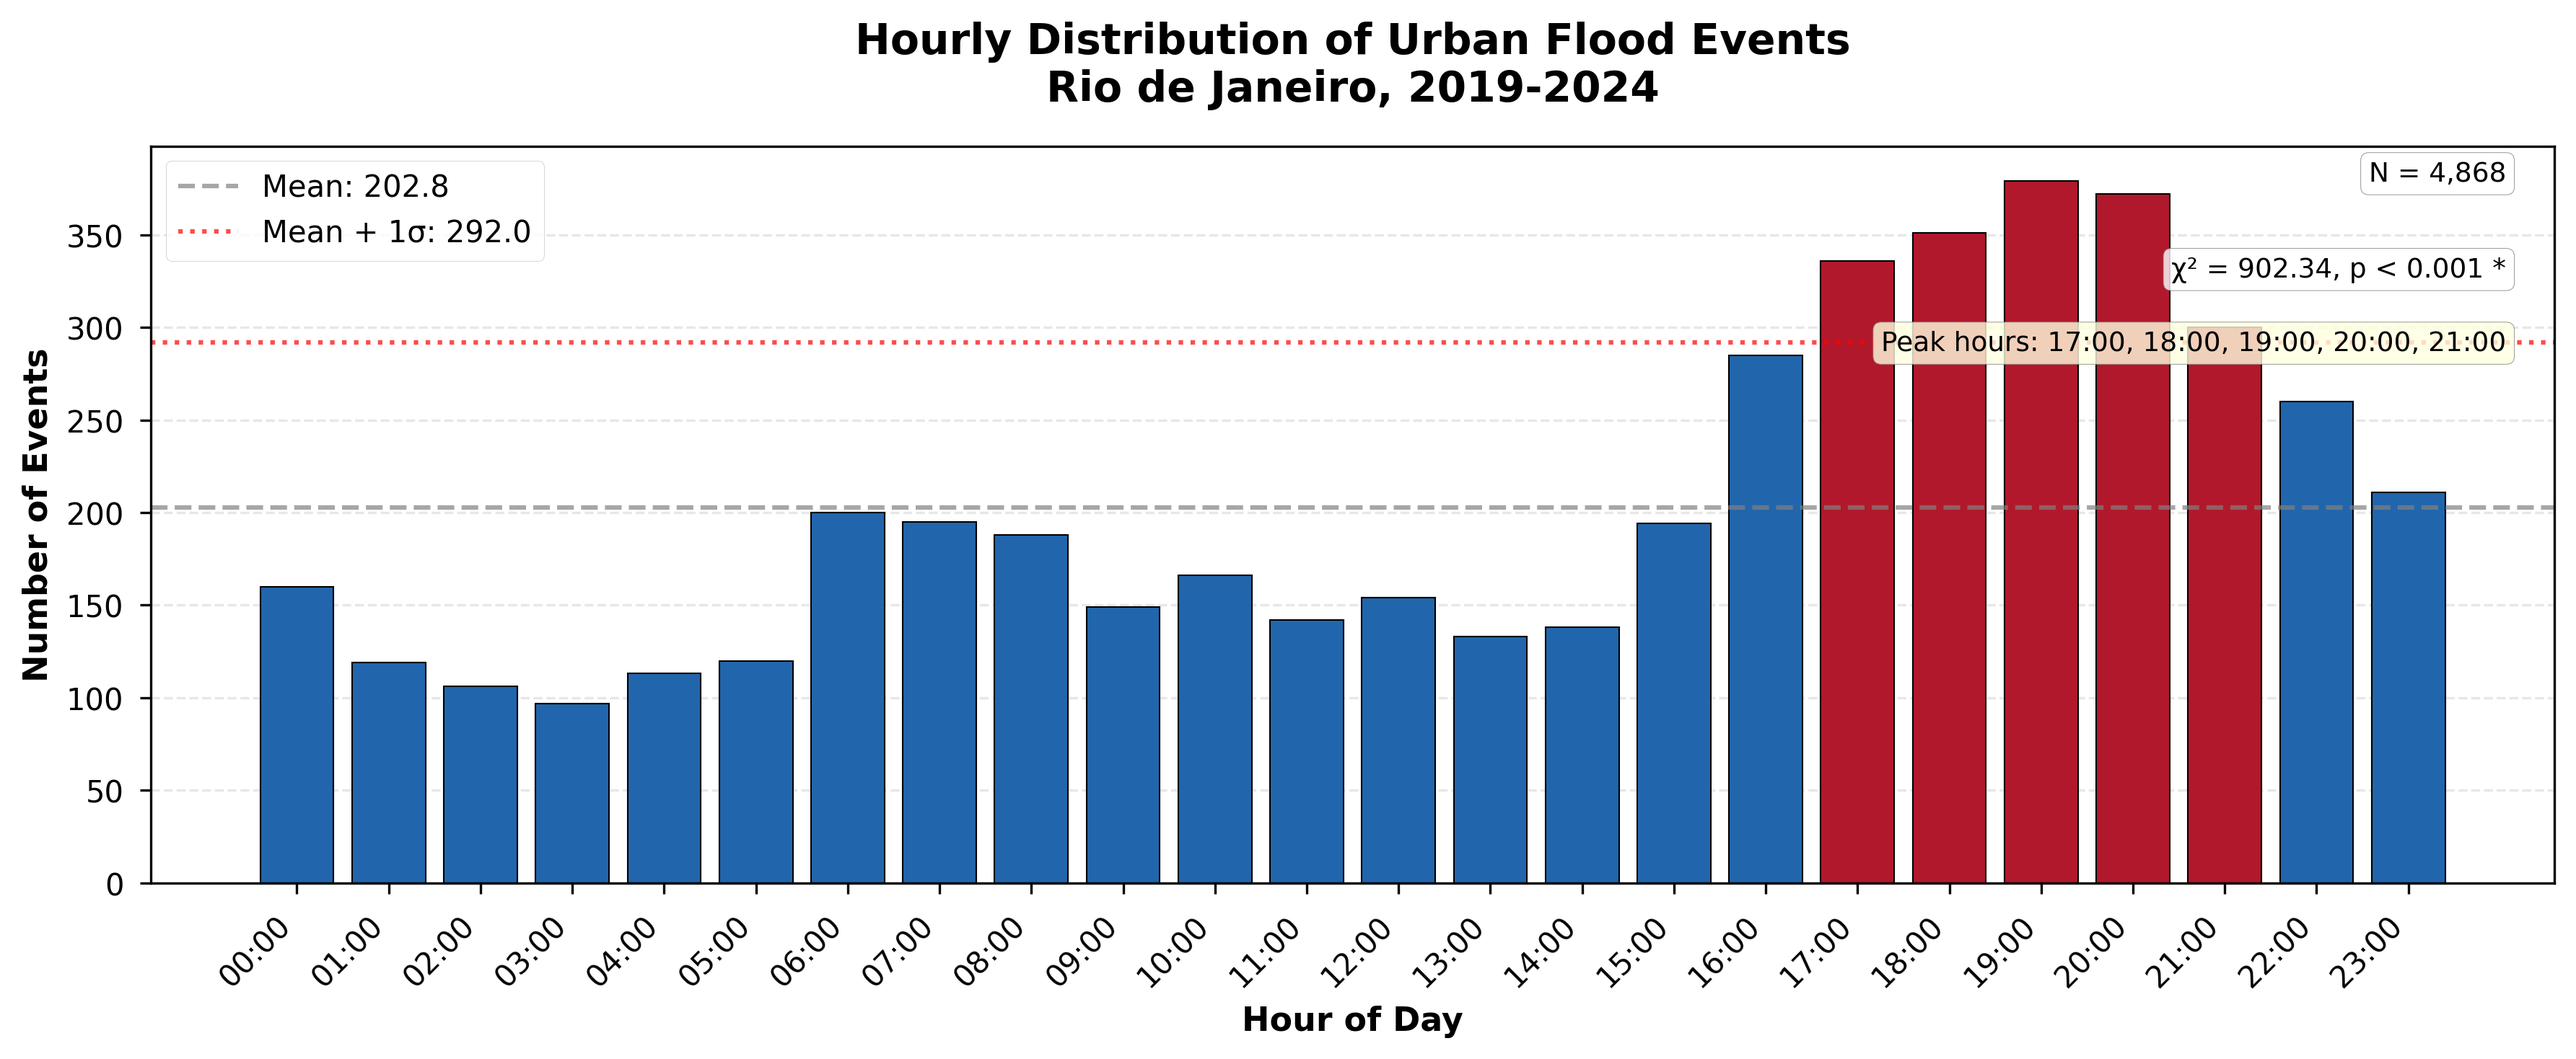
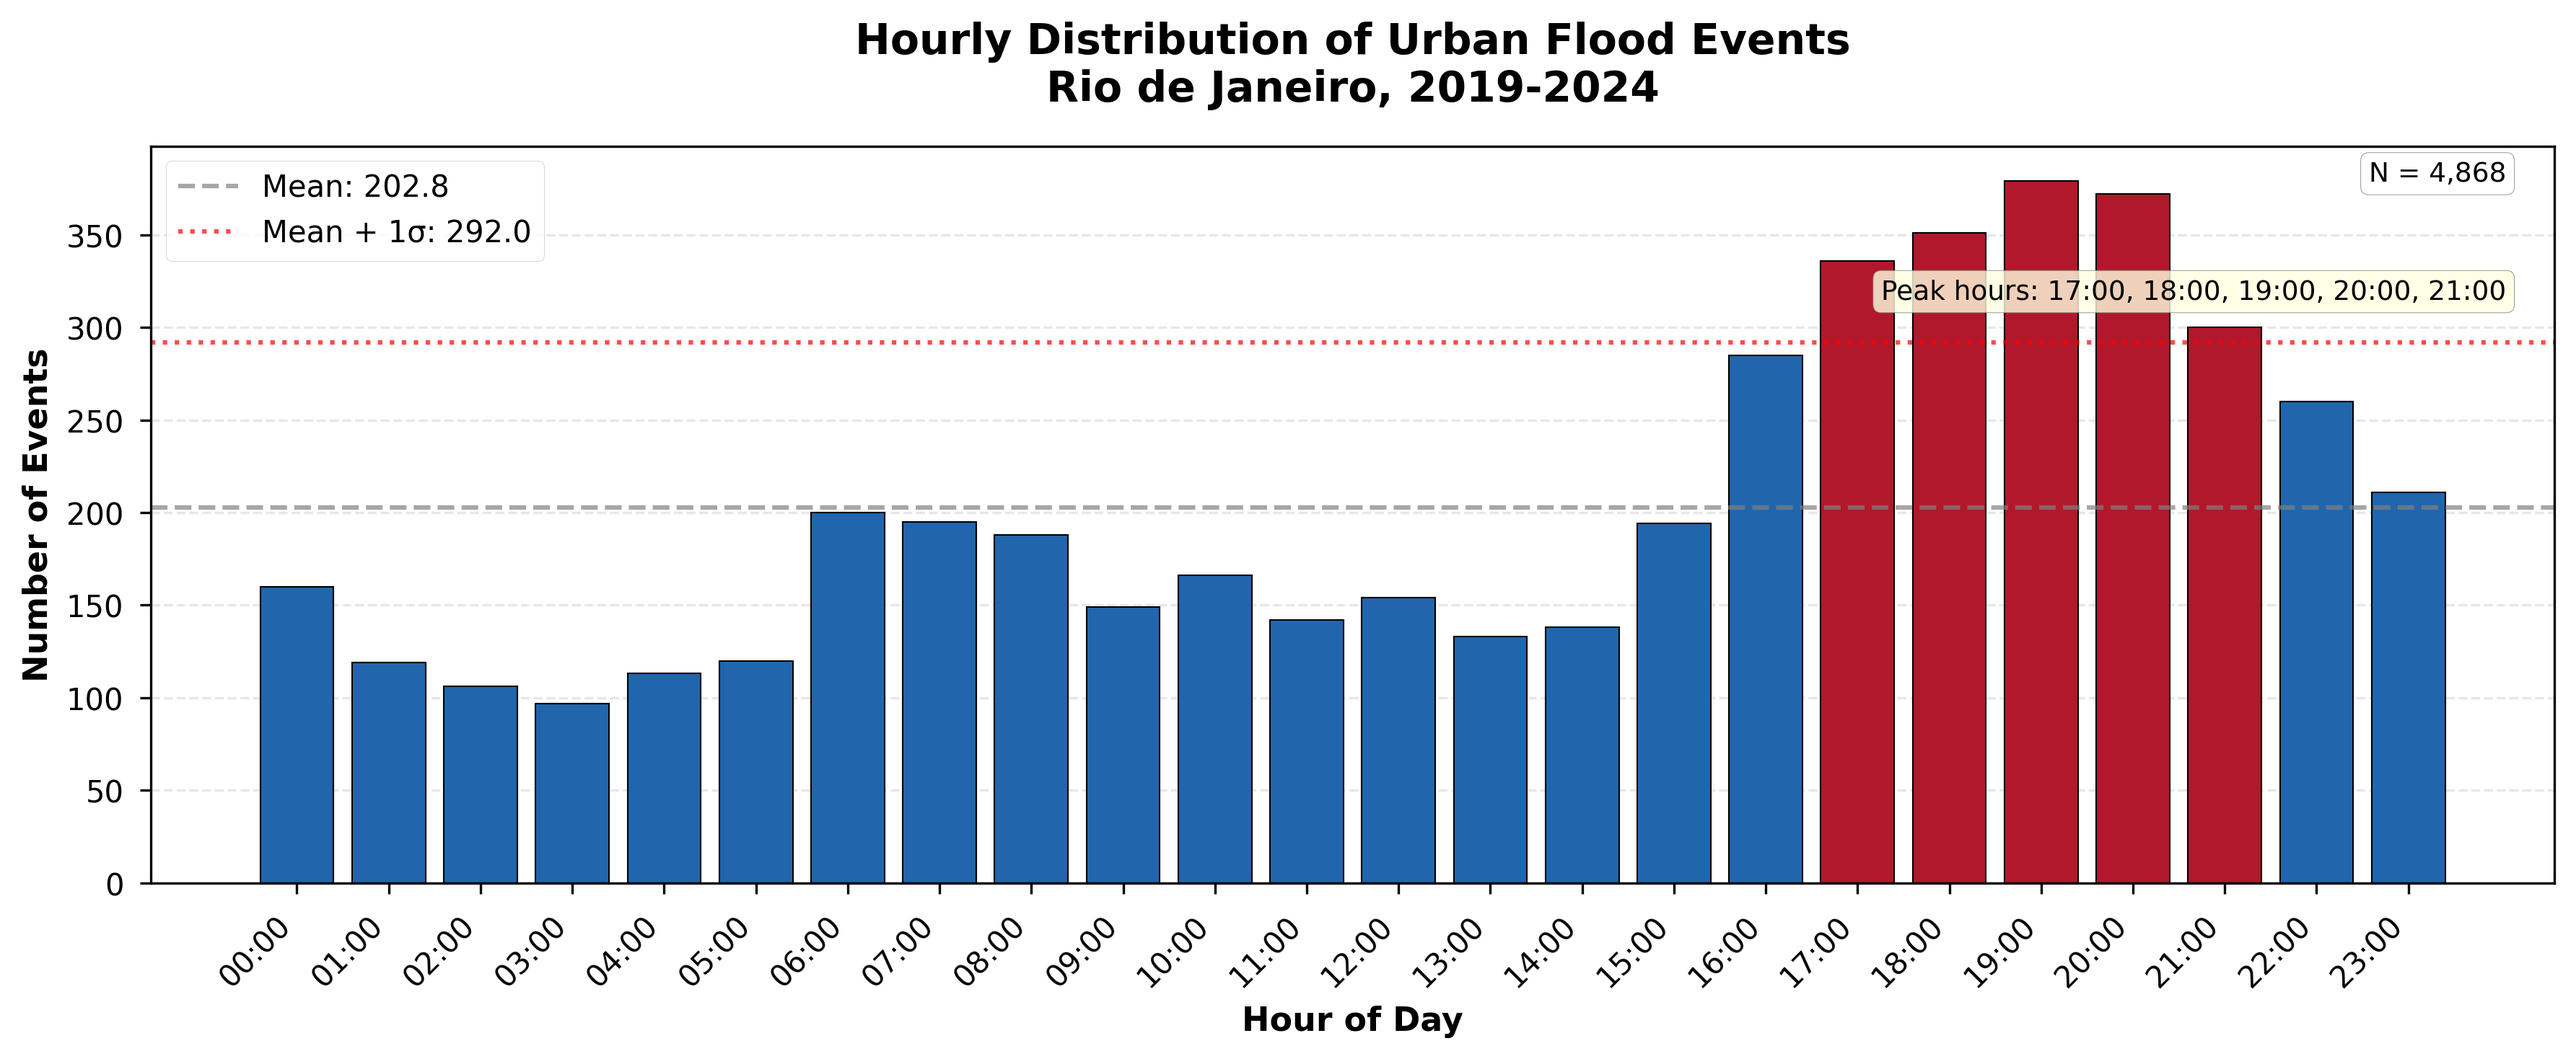
Refactor chart scripts to enhance clarity and remove statistical annotations
- Added a new default system prompt file.
- Updated `chart_02_temporal_patterns.py`, `chart_03_hourly_distribution.py`, and `chart_05_hourly_by_season.py` to remove chi-square test annotations for improved visual clarity.
- Adjusted text positioning in `chart_03_hourly_distribution.py` for better peak hour visibility.
- Updated README documentation to reflect changes in statistical reporting and visual improvements.
- Added new compiled Python cache file for performance optimization.

Changed region(s): [[0.7151, 0.2451, 0.995, 0.3676]]

diff --git a/scripts/charts/v1/chart_03_hourly_distribution.py b/scripts/charts/v1/chart_03_hourly_distribution.py
@@ -81,17 +81,9 @@ def create_hourly_distribution_chart(ocorrencias):
     ax.set_axisbelow(True)
     ax.legend(loc='upper left', fontsize=FONT_SIZES['legend'])
     
-    # Add chi-square test result
-    sig_text = f'χ² = {chi2:.2f}, p < 0.001' if p_value < 0.001 else f'χ² = {chi2:.2f}, p = {p_value:.4f}'
-    if p_value < ALPHA:
-        sig_text += ' *'
-    ax.text(0.98, 0.85, sig_text, transform=ax.transAxes, fontsize=FONT_SIZES['annotation'],
-            verticalalignment='top', horizontalalignment='right',
-            bbox=dict(boxstyle='round', facecolor='white', alpha=0.8, edgecolor='gray'))
-    
     # Add peak hours annotation
     peak_text = f'Peak hours: {", ".join([f"{h:02d}:00" for h in peak_hours])}'
-    ax.text(0.98, 0.75, peak_text, transform=ax.transAxes, fontsize=FONT_SIZES['annotation'],
+    ax.text(0.98, 0.82, peak_text, transform=ax.transAxes, fontsize=FONT_SIZES['annotation'],
             verticalalignment='top', horizontalalignment='right',
             bbox=dict(boxstyle='round', facecolor='lightyellow', alpha=0.8, edgecolor='gray'))
     

diff --git a/scripts/charts/v1/chart_05_hourly_by_season.py b/scripts/charts/v1/chart_05_hourly_by_season.py
@@ -136,15 +136,6 @@ def create_hourly_by_season_chart(ocorrencias):
         ax.set_axisbelow(True)
         ax.legend(loc='upper left', fontsize=FONT_SIZES['annotation'])
         
-        # Add chi-square test result
-        sig_text = f'χ² = {chi2:.1f}, p < 0.001' if p_value < 0.001 else f'χ² = {chi2:.1f}, p = {p_value:.3f}'
-        if p_value < ALPHA:
-            sig_text += ' *'
-        ax.text(0.98, 0.98, sig_text, transform=ax.transAxes, 
-               fontsize=FONT_SIZES['annotation'],
-               verticalalignment='top', horizontalalignment='right',
-               bbox=dict(boxstyle='round', facecolor='white', alpha=0.8, edgecolor='gray'))
-        
         # Add peak hours annotation if any
         if peak_hours:
             peak_text = f'Peak: {", ".join([f"{h:02d}h" for h in peak_hours[:3]])}'

diff --git a/scripts/charts/v1/chart_02_temporal_patterns.py b/scripts/charts/v1/chart_02_temporal_patterns.py
@@ -116,13 +116,6 @@ def create_temporal_patterns_chart(ocorrencias):
     ax2.grid(axis='y', linestyle='--', alpha=0.3)
     ax2.set_axisbelow(True)
     
-    sig_text = f'χ² = {chi2:.2f}, p = {p_value:.4f}'
-    if p_value < ALPHA:
-        sig_text += ' *'
-    ax2.text(0.98, 0.02, sig_text, transform=ax2.transAxes, fontsize=FONT_SIZES['annotation'],
-            verticalalignment='bottom', horizontalalignment='right',
-            bbox=dict(boxstyle='round', facecolor='white', alpha=0.8, edgecolor='gray'))
-    
     add_subfigure_label(ax2, '(b)')
     add_sample_size_annotation(ax2, len(ocorrencias))
     

diff --git a/scripts/charts/v1/README.md b/scripts/charts/v1/README.md
@@ -13,9 +13,8 @@ This directory contains improved chart generation scripts designed for scientifi
 
 ### 2. **Enhanced Statistical Rigor**
 - **Confidence intervals** (95% CI) for temporal patterns
-- **Chi-square tests** for distribution uniformity
 - **Sample sizes** clearly displayed on all charts
-- **Significance markers** (p-values) included where appropriate
+- Statistical tests performed during analysis (not displayed on charts for clarity)
 
 ### 3. **Improved Visual Design**
 - **Unified color palette** (colorblind-friendly from ColorBrewer)
@@ -61,15 +60,14 @@ This directory contains improved chart generation scripts designed for scientifi
 
 **Improvements over original:**
 - **Panel (a):** Monthly distribution with 95% confidence intervals
-- **Panel (b):** Seasonal distribution with chi-square test
+- **Panel (b):** Seasonal distribution with clear visual comparison
 - Eliminates redundancy (combined 5 temporal charts into 1)
-- Statistical significance testing (χ² = 2003.09, p < 0.001)
 - Non-negative confidence bounds
 
 **Key findings:**
 - Strong seasonal pattern (Summer: 47.9%, Winter: 6.3%)
 - Peak months: February (108 events avg), March (87), January (74)
-- Statistically significant seasonal variation
+- Clear seasonal variation in flood occurrence
 
 ---
 
@@ -80,11 +78,10 @@ This directory contains improved chart generation scripts designed for scientifi
 **Improvements over original:**
 - Mean and threshold lines (mean + 1σ)
 - Peak hours highlighted in red
-- Chi-square test for uniformity
-- Statistical annotations
+- Clear identification of peak and low activity periods
 
 **Key findings:**
-- Strong diurnal pattern (χ² = 902.34, p < 0.001)
+- Strong diurnal pattern with evening concentration
 - Peak hours: 17:00-21:00 (evening rush hour)
 - Minimum: 03:00-08:00 (early morning)
 - Potential reporting bias during business hours
@@ -115,7 +112,6 @@ This directory contains improved chart generation scripts designed for scientifi
 **New addition:**
 - **Four-panel figure** (2x2 grid) showing hourly patterns for each season
 - Each panel includes mean, threshold lines, and peak hour identification
-- Chi-square tests for each season
 - Season-specific color coding with peak hours highlighted
 
 **Key findings:**
@@ -123,7 +119,7 @@ This directory contains improved chart generation scripts designed for scientifi
 - **Autumn (N=1,534):** Evening peak shifts later (19:00-22:00), 113 events at 20:00
 - **Winter (N=307):** Weaker pattern, morning peak (06:00-07:00), 26 events at 16:00
 - **Spring (N=697):** Mixed pattern with peaks at 10:00, 17:00, and 22:00
-- All seasons show significant non-uniform distributions (p < 0.001)
+- All seasons show distinct non-uniform hourly distributions
 
 ---
 
@@ -202,8 +198,8 @@ To modify styling across all charts, edit [`config.py`](config.py).
 | Original | Issues | Improved Version |
 |----------|--------|------------------|
 | Chart 1 (Pie) | Pie chart, no context | Chart 1: Bar chart with percentages |
-| Chart 2-5 (Temporal) | Redundant, no statistics | Chart 2: Combined with CI & χ² test |
-| Chart 6 (Hourly) | No error bars, no significance | Chart 3: With statistics & peak hours |
+| Chart 2-5 (Temporal) | Redundant, no statistics | Chart 2: Combined with CI & visual comparison |
+| Chart 6 (Hourly) | No error bars, no peak identification | Chart 3: With mean lines & peak hours |
 | Chart 7 (Monthly) | Duplicate of Chart 3 | **Removed** (redundant) |
 | Chart 8 (Distance) | Histogram only, no CDF | Chart 4: Histogram + CDF with coverage |
 | - | Missing seasonal hourly analysis | Chart 5: Hourly by season (NEW) |
@@ -216,8 +212,8 @@ To modify styling across all charts, edit [`config.py`](config.py).
 - [x] Colorblind-friendly palette
 - [x] Consistent typography
 - [x] Sample sizes displayed
-- [x] Statistical tests included
-- [x] Confidence intervals shown
+- [x] Statistical tests performed in analysis
+- [x] Confidence intervals shown (where applicable)
 - [x] Subfigure labels (a, b, c)
 - [x] Comprehensive titles with context
 - [x] Clear axis labels with units
@@ -230,7 +226,7 @@ To modify styling across all charts, edit [`config.py`](config.py).
 1. **Figure Captions:** Add detailed captions in your manuscript explaining each panel and key findings
 
 2. **Statistical Reporting:** Include the following in your methods section:
-   - Chi-square tests for distribution uniformity
+   - Statistical tests were performed to assess distribution patterns (results available in analysis scripts)
    - 95% confidence intervals for temporal averages
    - Distance calculations using SIRGAS 2000 / UTM zone 23S projection
 
